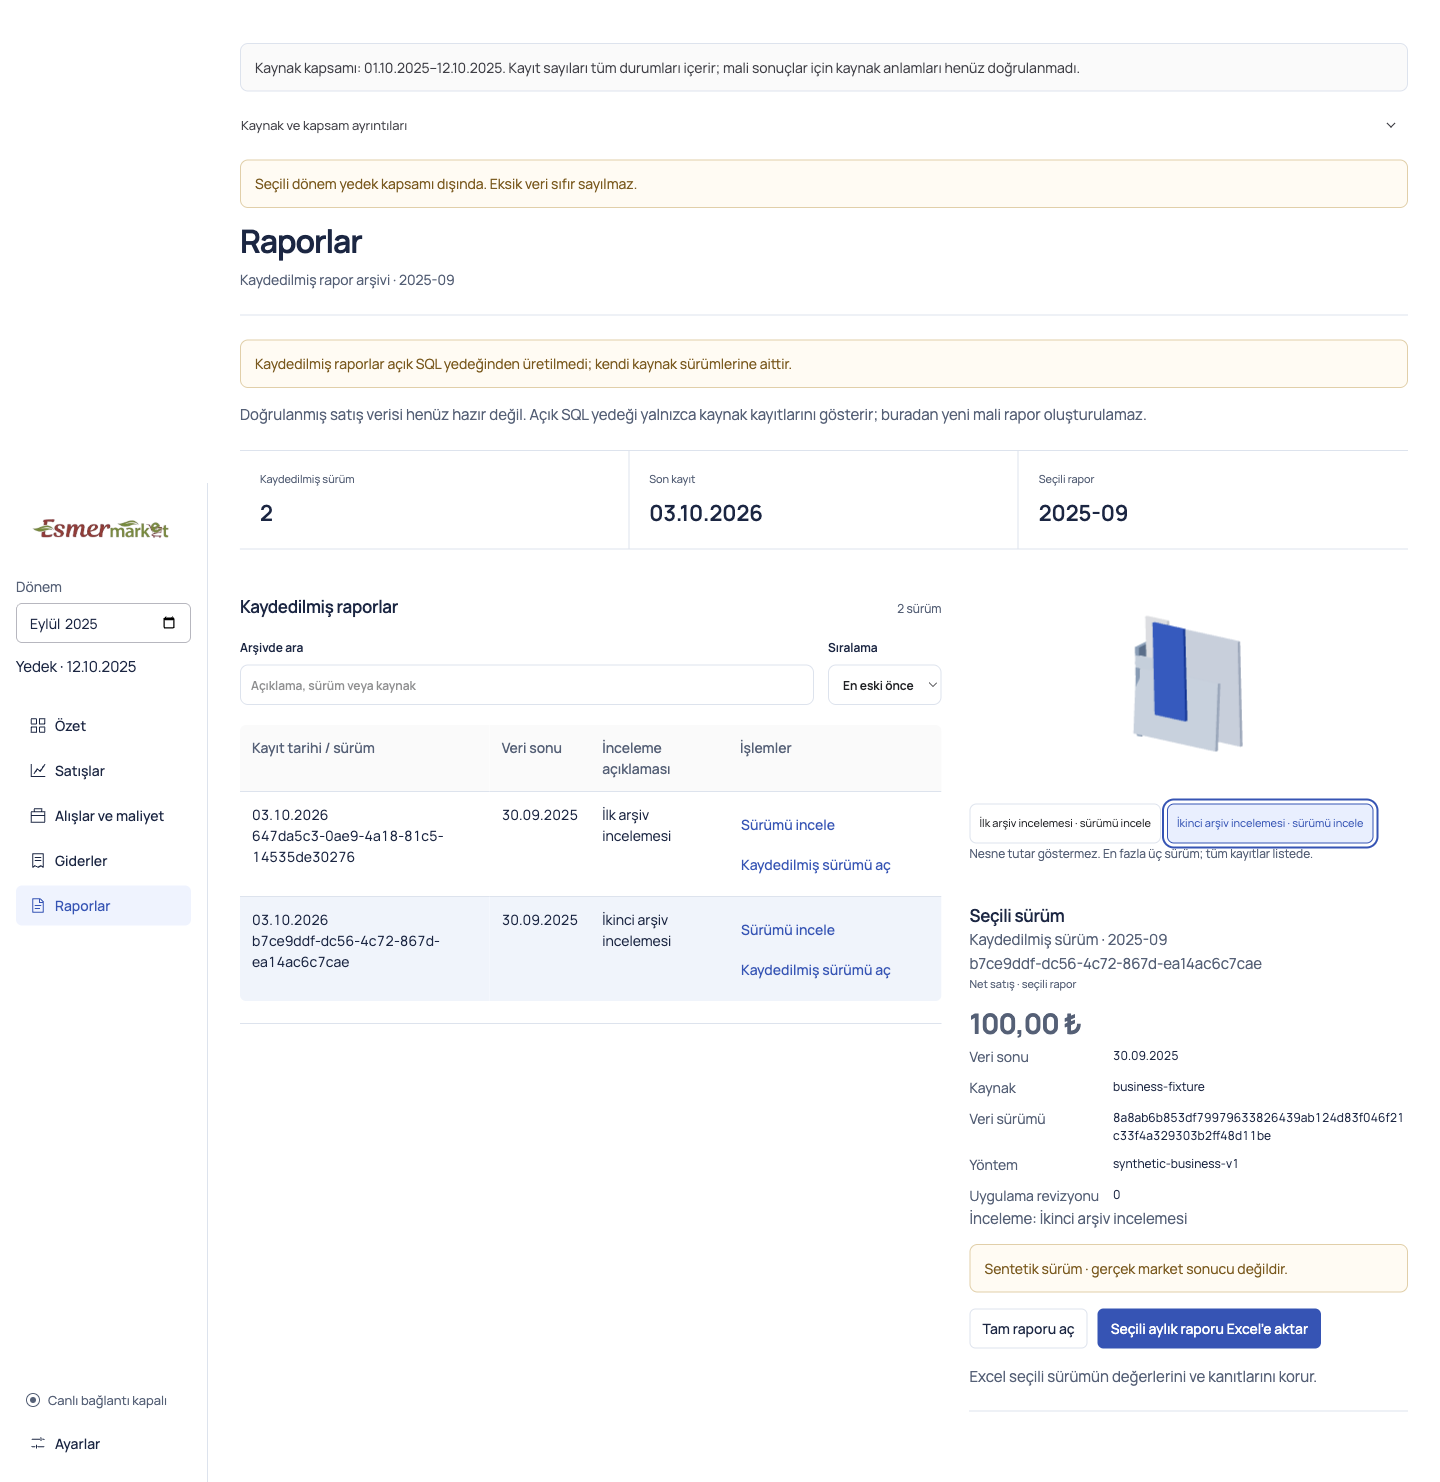
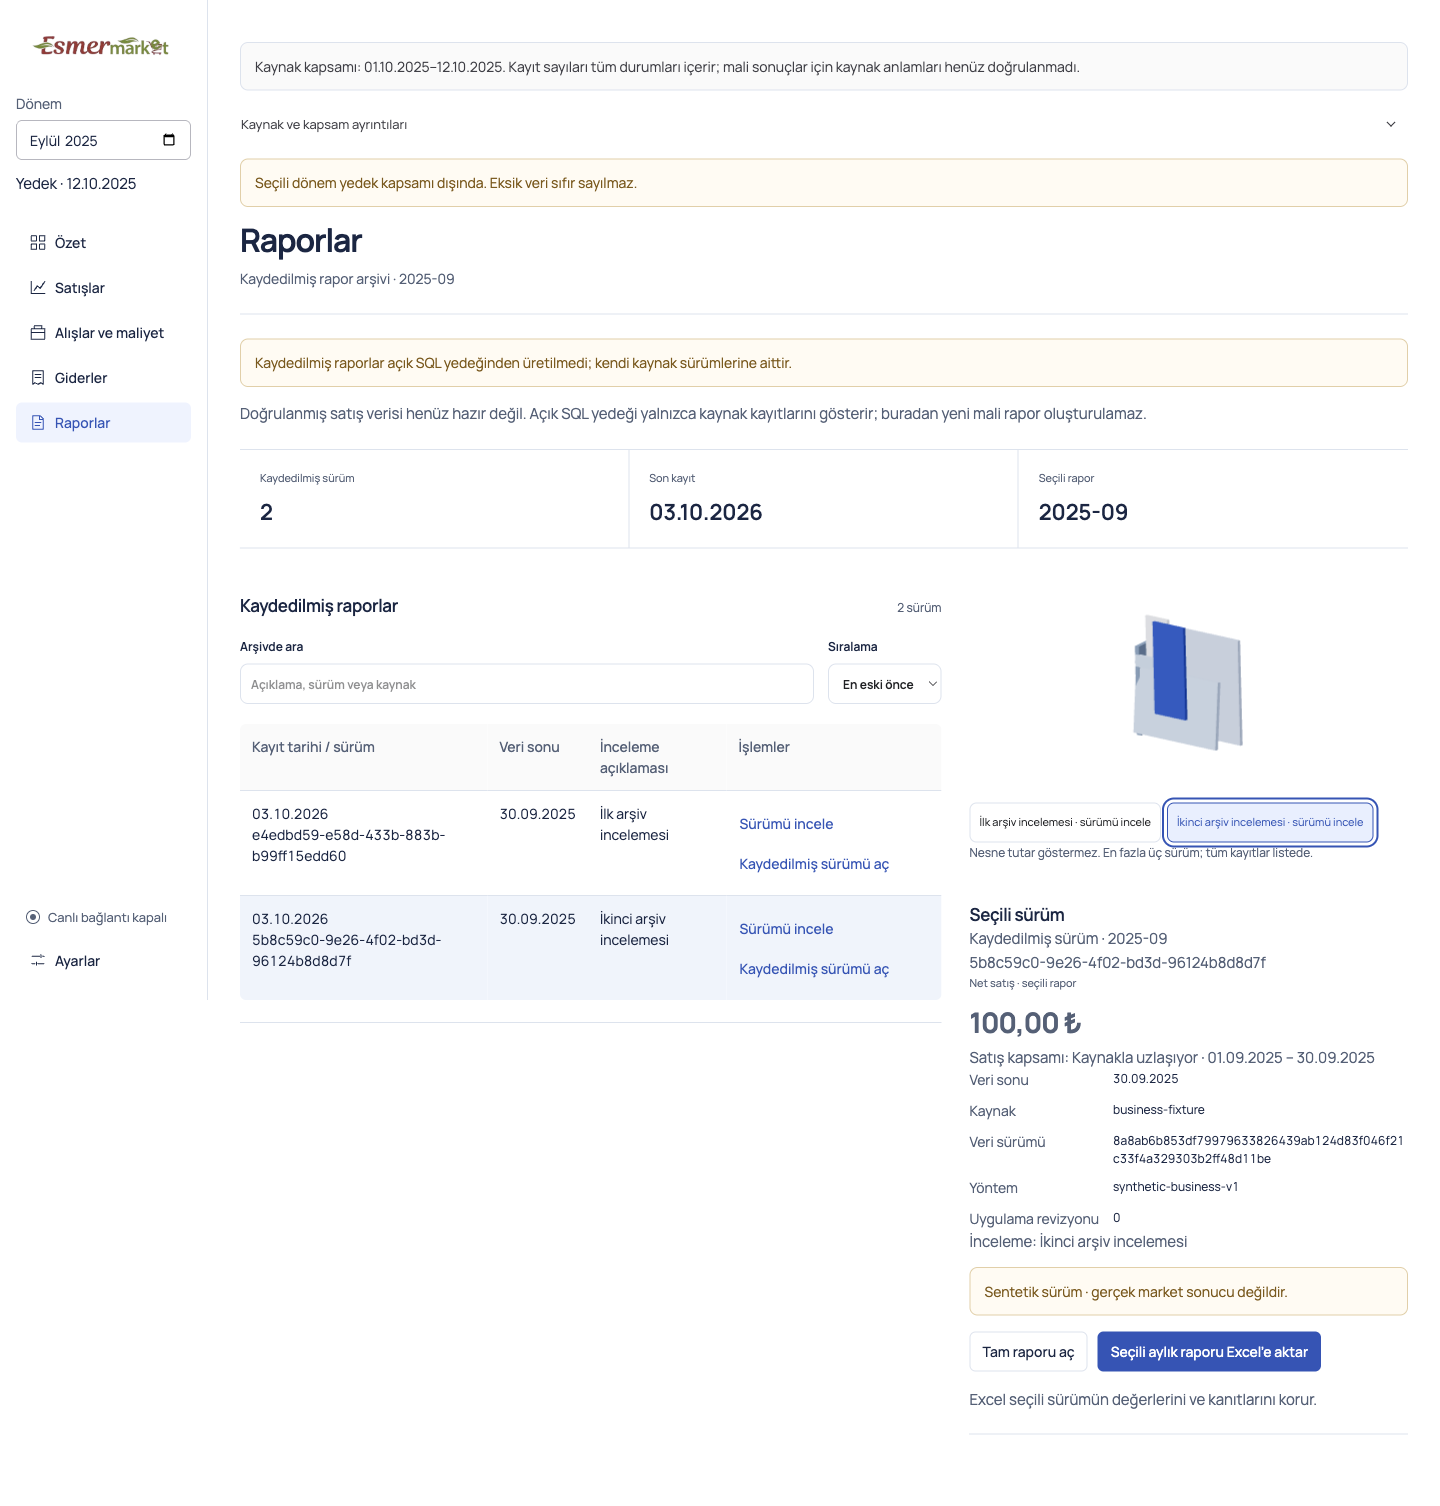
docs(reports): record review repairs and corrected captures

diff --git a/workstreams/page-control-desks/reports/evidence.md b/workstreams/page-control-desks/reports/evidence.md
@@ -29,3 +29,17 @@ Normal captures: [financial 1440](financial-1440.png), [financial 390](financial
 ## Limits
 
 Windows packaging/scaling, A07 Windows acceptance, real source semantics and full-volume performance remain open. No acceptance claim extends beyond these synthetic local macOS checks. Root owns full unit/integration verification, independent review, integration commits, PR and merge. No commits, pushes or spawned agents were made here.
+
+## PR60 bounded review repair
+
+Date: 2026-10-03. Starting pinned head: `0f0855629ebf4e1745a865d0d9f9f27487073943`, base `9683a80249efb5b30bbc463ca8ad95ec9230a29e`. Reviewed `work/page-implementation/reports/standards-review.md`. Repair is uncommitted for root integration.
+
+Four packaged regressions were added before application edits and run against the reviewer's existing pinned binary. **4 failed**: an accepted unavailable August period showed `0,00 ₺` rather than `Hesaplanamıyor`; accepted partial September lacked `Kısmi dönem`; accepted unreconciled September lacked `Kanıt eksik`; UI accept → inspect older ID → open newest/current row displayed the older full-report ID. Fixtures used actual `ReportVersions.open/accept` outputs and the application's UI acceptance flow, with no fabricated report DTOs.
+
+The inspector now uses the existing MonthlyOverview coverage boundary: unavailable sales are withheld, partial/incomplete contributions carry the existing Turkish explanations, and the service-provided from/to range is explicit. No financial values are recalculated. The candidate-ID full-open shortcut sets the requested candidate before opening details. Three redundant test comments were removed. Normal captures now reset window scroll to zero and wait for two animation frames after viewport changes.
+
+Fresh `npm run typecheck`, `npm run lint`, `npm run build` and offline `npx electron-builder --dir --config.electronDist=/Users/altanesmer/Desktop/Ales/esmer-market-analytics/node_modules/electron/dist` **passed**. Existing dependency-discovery/default-icon/unsigned macOS warnings are unchanged.
+
+The packaged command above, with explicit `ESMER_CAPTURE_EVIDENCE=1`, then ran **13 passed in 15.3 seconds**: all eight Reports control-desk tests (including the four red regressions), existing saved-pair versus candidate review/focus, two report states, and two source-workspace checks. The existing source typing race did not occur in this run; no claim that it was fixed. `git diff --check` passed.
+
+Normal financial/source 1440/390 captures and separate fallback captures were refreshed once after the repair. Visual inspection confirms the desktop sidebar begins at the page top, the full scene remains visible in full-page normal captures, and coverage status/range appear with the selected saved report. Financial/source measurements remain 6 draw calls / 72 triangles per resize frame and zero idle draw calls. Windows A07, real-source, full-volume and long-running renderer gates remain open.
